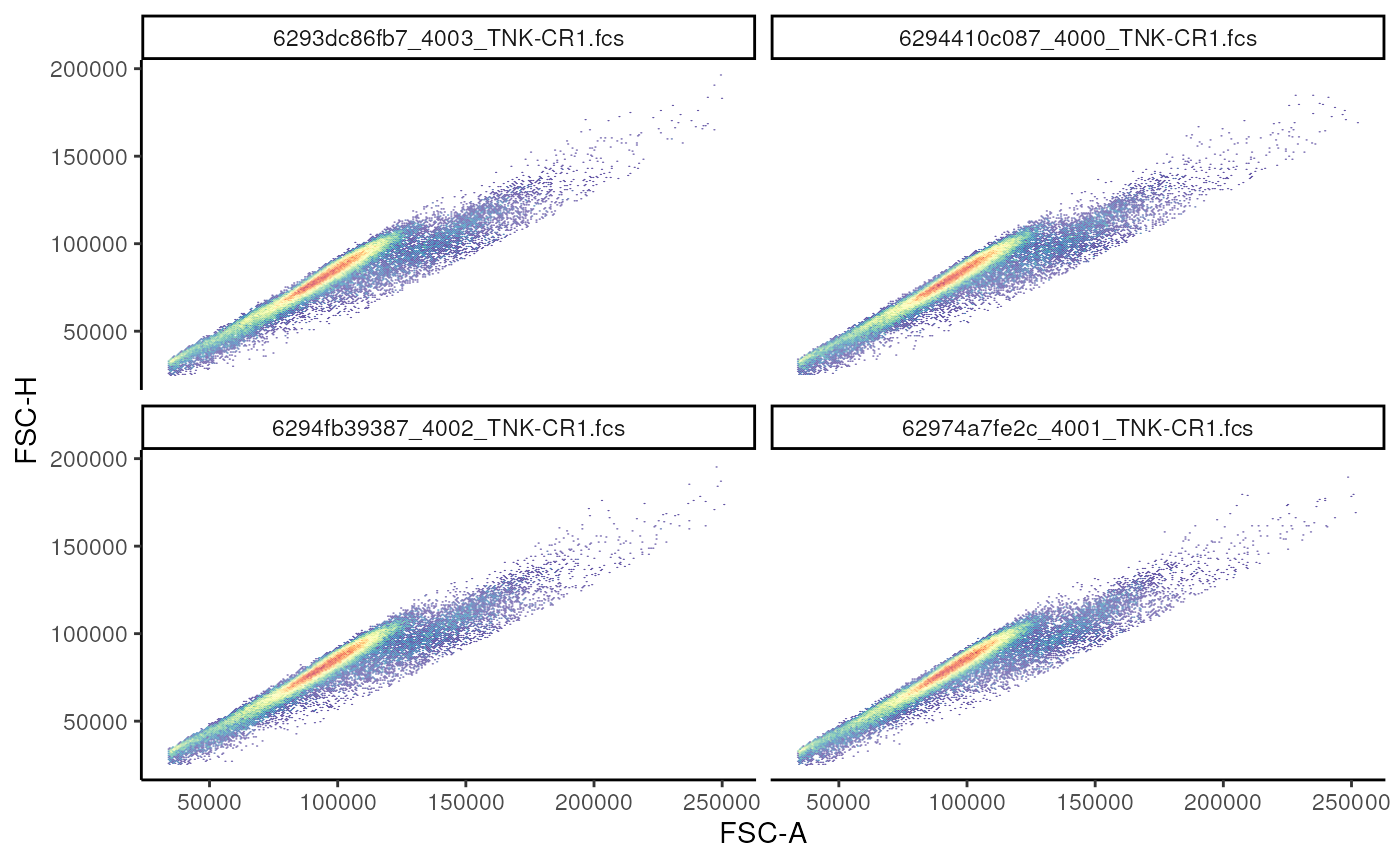
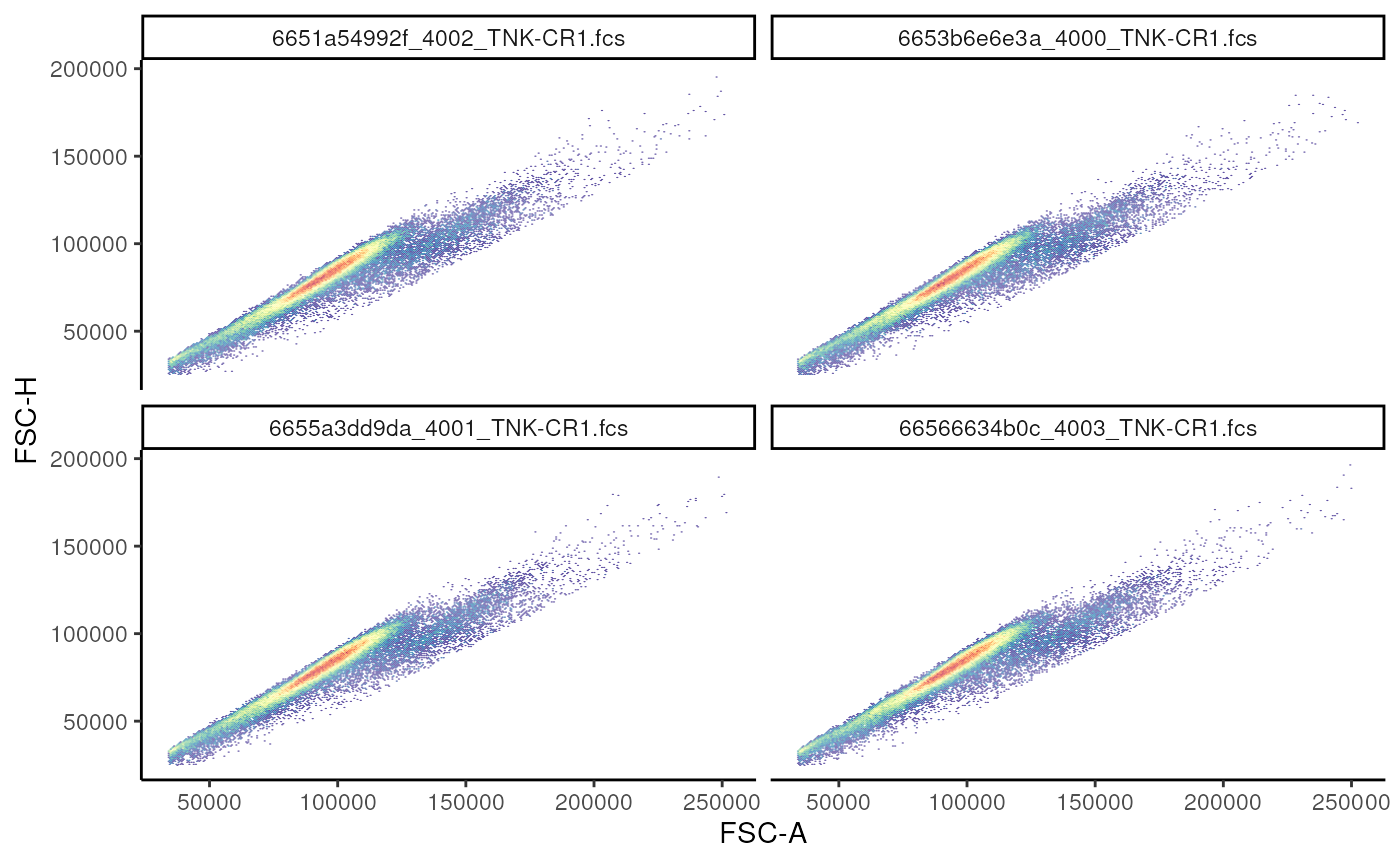
Deploying to gh-pages from @ OzetteTech/cytoverse-bioc-2023@af8563016a8dc3c3a21dca7bc8cd91478e438762 🚀

diff --git a/articles/1_Import_fcs.html b/articles/1_Import_fcs.html
@@ -282,7 +282,7 @@ indicated in the <code>rpath</code> variable.</p>
 <span></span>
 <span><span class="co"># a cytoframe object</span></span>
 <span><span class="va">cf</span></span></code></pre></div>
-<pre><code><span><span class="co">## cytoframe object '6294410c087_4000_TNK-CR1.fcs'</span></span>
+<pre><code><span><span class="co">## cytoframe object '6653b6e6e3a_4000_TNK-CR1.fcs'</span></span>
 <span><span class="co">## with 102015 cells and 33 observables:</span></span>
 <span><span class="co">##                   name            desc     range  minRange  maxRange</span></span>
 <span><span class="co">## $P1              FSC-A              NA    262143    0.0000    262143</span></span>
@@ -534,7 +534,7 @@ expression matrix <code>exprs(cf)</code> as well as the columns of the
 <code class="sourceCode R"><span><span class="co"># subset cytorame by column</span></span>
 <span><span class="va">s_cf</span> <span class="op">&lt;-</span> <span class="va">cf</span><span class="op">[</span>, <span class="va">CD4_chan</span><span class="op">]</span></span>
 <span><span class="va">s_cf</span></span></code></pre></div>
-<pre><code><span><span class="co">## cytoframe object '6294410c087_4000_TNK-CR1.fcs'</span></span>
+<pre><code><span><span class="co">## cytoframe object '6653b6e6e3a_4000_TNK-CR1.fcs'</span></span>
 <span><span class="co">## with 102015 cells and 1 observables:</span></span>
 <span><span class="co">##        name       desc     range  minRange  maxRange</span></span>
 <span><span class="co">## $P23 U785-A CD4 BUV805    262143  -80.5002    262143</span></span>
@@ -545,7 +545,7 @@ expression matrix <code>exprs(cf)</code> as well as the columns of the
 <code class="sourceCode R"><span><span class="co"># subset cytoframe by row</span></span>
 <span><span class="va">s2_cf</span> <span class="op">&lt;-</span> <span class="va">cf</span><span class="op">[</span><span class="fl">1</span><span class="op">:</span><span class="fl">100</span>, <span class="op">]</span></span>
 <span><span class="va">s2_cf</span></span></code></pre></div>
-<pre><code><span><span class="co">## cytoframe object '6294410c087_4000_TNK-CR1.fcs'</span></span>
+<pre><code><span><span class="co">## cytoframe object '6653b6e6e3a_4000_TNK-CR1.fcs'</span></span>
 <span><span class="co">## with 100 cells and 33 observables:</span></span>
 <span><span class="co">##                   name            desc     range  minRange  maxRange</span></span>
 <span><span class="co">## $P1              FSC-A              NA    262143    0.0000    262143</span></span>
@@ -722,12 +722,12 @@ the <code>sampleNames</code> of the <code>cytoset</code>.</p>
 <code class="sourceCode R"><span><span class="co"># prior to providing metadata</span></span>
 <span><span class="fu"><a href="https://rdrr.io/pkg/Biobase/man/phenoData.html" class="external-link">pData</a></span><span class="op">(</span><span class="va">cs</span><span class="op">)</span></span></code></pre></div>
 <pre><code><span><span class="co">##                                                      name</span></span>
-<span><span class="co">## 6291bfafbbf_4000_BDC-CR1.fcs 6291bfafbbf_4000_BDC-CR1.fcs</span></span>
-<span><span class="co">## 6294410c087_4000_TNK-CR1.fcs 6294410c087_4000_TNK-CR1.fcs</span></span>
-<span><span class="co">## 629310f79a_4001_BDC-CR1.fcs   629310f79a_4001_BDC-CR1.fcs</span></span>
-<span><span class="co">## 62974a7fe2c_4001_TNK-CR1.fcs 62974a7fe2c_4001_TNK-CR1.fcs</span></span>
-<span><span class="co">## 6294fb39387_4002_TNK-CR1.fcs 6294fb39387_4002_TNK-CR1.fcs</span></span>
-<span><span class="co">## 6293dc86fb7_4003_TNK-CR1.fcs 6293dc86fb7_4003_TNK-CR1.fcs</span></span></code></pre>
+<span><span class="co">## 66566acd875_4000_BDC-CR1.fcs 66566acd875_4000_BDC-CR1.fcs</span></span>
+<span><span class="co">## 6653b6e6e3a_4000_TNK-CR1.fcs 6653b6e6e3a_4000_TNK-CR1.fcs</span></span>
+<span><span class="co">## 6656e0c5ae5_4001_BDC-CR1.fcs 6656e0c5ae5_4001_BDC-CR1.fcs</span></span>
+<span><span class="co">## 6655a3dd9da_4001_TNK-CR1.fcs 6655a3dd9da_4001_TNK-CR1.fcs</span></span>
+<span><span class="co">## 6651a54992f_4002_TNK-CR1.fcs 6651a54992f_4002_TNK-CR1.fcs</span></span>
+<span><span class="co">## 66566634b0c_4003_TNK-CR1.fcs 66566634b0c_4003_TNK-CR1.fcs</span></span></code></pre>
 <div class="sourceCode" id="cb46"><pre class="downlit sourceCode r">
 <code class="sourceCode R"><span><span class="co"># create metadata</span></span>
 <span><span class="va">metadata</span> <span class="op">&lt;-</span> <span class="fu"><a href="https://rdrr.io/r/base/data.frame.html" class="external-link">data.frame</a></span><span class="op">(</span></span>
@@ -756,12 +756,12 @@ the <code>sampleNames</code> of the <code>cytoset</code>.</p>
 <span><span class="fu"><a href="https://rdrr.io/pkg/Biobase/man/phenoData.html" class="external-link">pData</a></span><span class="op">(</span><span class="va">cs</span><span class="op">)</span> <span class="op">&lt;-</span> <span class="va">metadata</span></span>
 <span><span class="fu"><a href="https://rdrr.io/pkg/Biobase/man/phenoData.html" class="external-link">pData</a></span><span class="op">(</span><span class="va">cs</span><span class="op">)</span></span></code></pre></div>
 <pre><code><span><span class="co">##                              Treatment         panel</span></span>
-<span><span class="co">## 6291bfafbbf_4000_BDC-CR1.fcs Untreated Myeloid Panel</span></span>
-<span><span class="co">## 6294410c087_4000_TNK-CR1.fcs   Treated  T Cell Panel</span></span>
-<span><span class="co">## 629310f79a_4001_BDC-CR1.fcs  Untreated Myeloid Panel</span></span>
-<span><span class="co">## 62974a7fe2c_4001_TNK-CR1.fcs   Treated  T Cell Panel</span></span>
-<span><span class="co">## 6294fb39387_4002_TNK-CR1.fcs Untreated  T Cell Panel</span></span>
-<span><span class="co">## 6293dc86fb7_4003_TNK-CR1.fcs   Treated  T Cell Panel</span></span></code></pre>
+<span><span class="co">## 66566acd875_4000_BDC-CR1.fcs Untreated Myeloid Panel</span></span>
+<span><span class="co">## 6653b6e6e3a_4000_TNK-CR1.fcs   Treated  T Cell Panel</span></span>
+<span><span class="co">## 6656e0c5ae5_4001_BDC-CR1.fcs Untreated Myeloid Panel</span></span>
+<span><span class="co">## 6655a3dd9da_4001_TNK-CR1.fcs   Treated  T Cell Panel</span></span>
+<span><span class="co">## 6651a54992f_4002_TNK-CR1.fcs Untreated  T Cell Panel</span></span>
+<span><span class="co">## 66566634b0c_4003_TNK-CR1.fcs   Treated  T Cell Panel</span></span></code></pre>
 <p>The benefit of having metadata is that we can use many of the
 sub-setting operations in a metadata specific manner.</p>
 <p>This is much more convenient than going back and forth between the
@@ -778,8 +778,8 @@ full set of files.</p>
 <div class="sourceCode" id="cb53"><pre class="downlit sourceCode r">
 <code class="sourceCode R"><span><span class="fu"><a href="https://rdrr.io/pkg/Biobase/man/phenoData.html" class="external-link">pData</a></span><span class="op">(</span><span class="va">cs_myeloid</span><span class="op">)</span></span></code></pre></div>
 <pre><code><span><span class="co">##                              Treatment         panel</span></span>
-<span><span class="co">## 6291bfafbbf_4000_BDC-CR1.fcs Untreated Myeloid Panel</span></span>
-<span><span class="co">## 629310f79a_4001_BDC-CR1.fcs  Untreated Myeloid Panel</span></span></code></pre>
+<span><span class="co">## 66566acd875_4000_BDC-CR1.fcs Untreated Myeloid Panel</span></span>
+<span><span class="co">## 6656e0c5ae5_4001_BDC-CR1.fcs Untreated Myeloid Panel</span></span></code></pre>
 <div class="section level3">
 <h3 id="cytoset-views-and-aliasing">Cytoset views and aliasing<a class="anchor" aria-label="anchor" href="#cytoset-views-and-aliasing"></a>
 </h3>
@@ -828,10 +828,10 @@ To confirm this, you can use <code>cs_get_uri</code> or
 <code>cf_get_uri</code>:</p>
 <div class="sourceCode" id="cb63"><pre class="downlit sourceCode r">
 <code class="sourceCode R"><span><span class="fu"><a href="https://rdrr.io/pkg/flowWorkspace/man/cs_get_uri.html" class="external-link">cs_get_uri</a></span><span class="op">(</span><span class="va">cs_small</span><span class="op">)</span></span></code></pre></div>
-<pre><code><span><span class="co">## [1] "/tmp/RtmpdnqfMo/261f7058-3c07-44cd-8b55-c13ef73293f2"</span></span></code></pre>
+<pre><code><span><span class="co">## [1] "/tmp/RtmpiF08qs/6f5c70f1-55c1-4a2b-9fdc-0467e48fca37"</span></span></code></pre>
 <div class="sourceCode" id="cb65"><pre class="downlit sourceCode r">
 <code class="sourceCode R"><span><span class="fu"><a href="https://rdrr.io/pkg/flowWorkspace/man/cs_get_uri.html" class="external-link">cs_get_uri</a></span><span class="op">(</span><span class="va">cs</span><span class="op">)</span></span></code></pre></div>
-<pre><code><span><span class="co">## [1] "/tmp/RtmpdnqfMo/261f7058-3c07-44cd-8b55-c13ef73293f2"</span></span></code></pre>
+<pre><code><span><span class="co">## [1] "/tmp/RtmpiF08qs/6f5c70f1-55c1-4a2b-9fdc-0467e48fca37"</span></span></code></pre>
 <p>To perform a <strong>deep copy</strong> we can use
 <code><a href="https://rdrr.io/pkg/flowWorkspace/man/cytoframe.html" class="external-link">realize_view()</a></code></p>
 <div class="sourceCode" id="cb67"><pre class="downlit sourceCode r">
@@ -937,12 +937,12 @@ attempted to be coerced to a single array like object. (Set
 <span><span class="va">n_cell_events</span> <span class="op">&lt;-</span> <span class="fu"><a href="https://rdrr.io/pkg/flowCore/man/fsApply.html" class="external-link">fsApply</a></span><span class="op">(</span><span class="va">cs</span>, <span class="va">nrow</span><span class="op">)</span></span>
 <span><span class="va">n_cell_events</span></span></code></pre></div>
 <pre><code><span><span class="co">##                                [,1]</span></span>
-<span><span class="co">## 6291bfafbbf_4000_BDC-CR1.fcs 912254</span></span>
-<span><span class="co">## 6294410c087_4000_TNK-CR1.fcs 102015</span></span>
-<span><span class="co">## 629310f79a_4001_BDC-CR1.fcs  924474</span></span>
-<span><span class="co">## 62974a7fe2c_4001_TNK-CR1.fcs  92703</span></span>
-<span><span class="co">## 6294fb39387_4002_TNK-CR1.fcs 372224</span></span>
-<span><span class="co">## 6293dc86fb7_4003_TNK-CR1.fcs 146150</span></span></code></pre>
+<span><span class="co">## 66566acd875_4000_BDC-CR1.fcs 912254</span></span>
+<span><span class="co">## 6653b6e6e3a_4000_TNK-CR1.fcs 102015</span></span>
+<span><span class="co">## 6656e0c5ae5_4001_BDC-CR1.fcs 924474</span></span>
+<span><span class="co">## 6655a3dd9da_4001_TNK-CR1.fcs  92703</span></span>
+<span><span class="co">## 6651a54992f_4002_TNK-CR1.fcs 372224</span></span>
+<span><span class="co">## 66566634b0c_4003_TNK-CR1.fcs 146150</span></span></code></pre>
 <div class="section level3">
 <h3 id="exercises">Exercises<a class="anchor" aria-label="anchor" href="#exercises"></a>
 </h3>

diff --git a/index.html b/index.html
@@ -106,7 +106,7 @@
 <div class="section level1">
 <h1 id="workshop-outlines">Workshop outlines<a class="anchor" aria-label="anchor" href="#workshop-outlines"></a>
 </h1>
-<p><a href="https://cdn.ozetteai.com/cytoverse-bioc-2023/index.html">This website</a> contains training materials that will be presented at a workshop at <a href="https://bioc2023.bioconductor.org/schedule/" class="external-link">Bioc2023</a>, on August 2nd. If you couldn’t attend the conference, don’t worry, as we’ll add links to videos of the workshop. You may also explore these training materials at your own pace.</p>
+<p><a href="https://cdn.ozetteai.com/cytoverse-bioc-2023/index.html">This website</a> contains training materials that will be presented at a workshop at <a href="https://bioc2023.bioconductor.org/schedule/" class="external-link">Bioc2023</a>, on August 2nd. During Bioc2023, you can launch an instance of rstudio server containing these materials by navigating to workshop.bioconductor.org. If you couldn’t attend the conference, don’t worry, as we’ll add links to videos of the workshop. You may also explore these training materials at your own pace.</p>
 <div class="section level2">
 <h2 id="learning-goals">Learning goals<a class="anchor" aria-label="anchor" href="#learning-goals"></a>
 </h2>
@@ -139,11 +139,11 @@
 </tr>
 <tr class="even">
 <td>Basics of working with FCS files</td>
-<td>15 minutes</td>
+<td>30 minutes</td>
 </tr>
 <tr class="odd">
 <td>Spillover, Transformation</td>
-<td>15 minutes</td>
+<td>25 minutes</td>
 </tr>
 <tr class="even">
 <td>Gating Cells in the <code>cytoverse</code>
@@ -153,11 +153,11 @@
 <tr class="odd">
 <td>Visualization using <code>ggcyto</code>
 </td>
-<td>10 minutes</td>
+<td>on your own</td>
 </tr>
 <tr class="even">
 <td>Reporting</td>
-<td>10 minutes</td>
+<td>on your own</td>
 </tr>
 <tr class="odd">
 <td>Wrap-up</td>
@@ -165,6 +165,11 @@
 </tr>
 </tbody>
 </table>
+</div>
+<div class="section level2">
+<h2 id="survey-of-open-source-users">Survey of open source users<a class="anchor" aria-label="anchor" href="#survey-of-open-source-users"></a>
+</h2>
+<p>We’d love to know more about the open source community so that we can better support their needs. Please <a href="https://docs.google.com/forms/d/e/1FAIpQLSc3t5IznfJFVJCOJB3SZVNryeOcSlSMDOUEg6rIXrRYza_sOw/viewform?usp=sf_link" class="external-link">complete our survey</a>.</p>
 </div>
 <div class="section level2">
 <h2 id="prerequisitesassumptions">Prerequisites/assumptions<a class="anchor" aria-label="anchor" href="#prerequisitesassumptions"></a>
@@ -207,6 +212,7 @@
 <div class="section level1">
 <h1 id="notes-on-using-the-docker-image">Notes on using the docker image<a class="anchor" aria-label="anchor" href="#notes-on-using-the-docker-image"></a>
 </h1>
+<p>You can get an instance of rstudio server that contains these materials, and all of their dependencies by installing docker, and then running</p>
 <div class="sourceCode" id="cb1"><pre class="sourceCode sh"><code class="sourceCode bash"><span id="cb1-1"><a href="#cb1-1" aria-hidden="true" tabindex="-1"></a><span class="ex">docker</span> run <span class="at">-network</span><span class="op">=</span>host <span class="at">-e</span> PASSWORD=<span class="op">&lt;</span>choose_a_password_for_rstudio<span class="op">&gt;</span> -p 8787:8787 ghcr.io/ozettetech/cytoverse-bioc-2023:latest</span></code></pre></div>
 </div>
 
